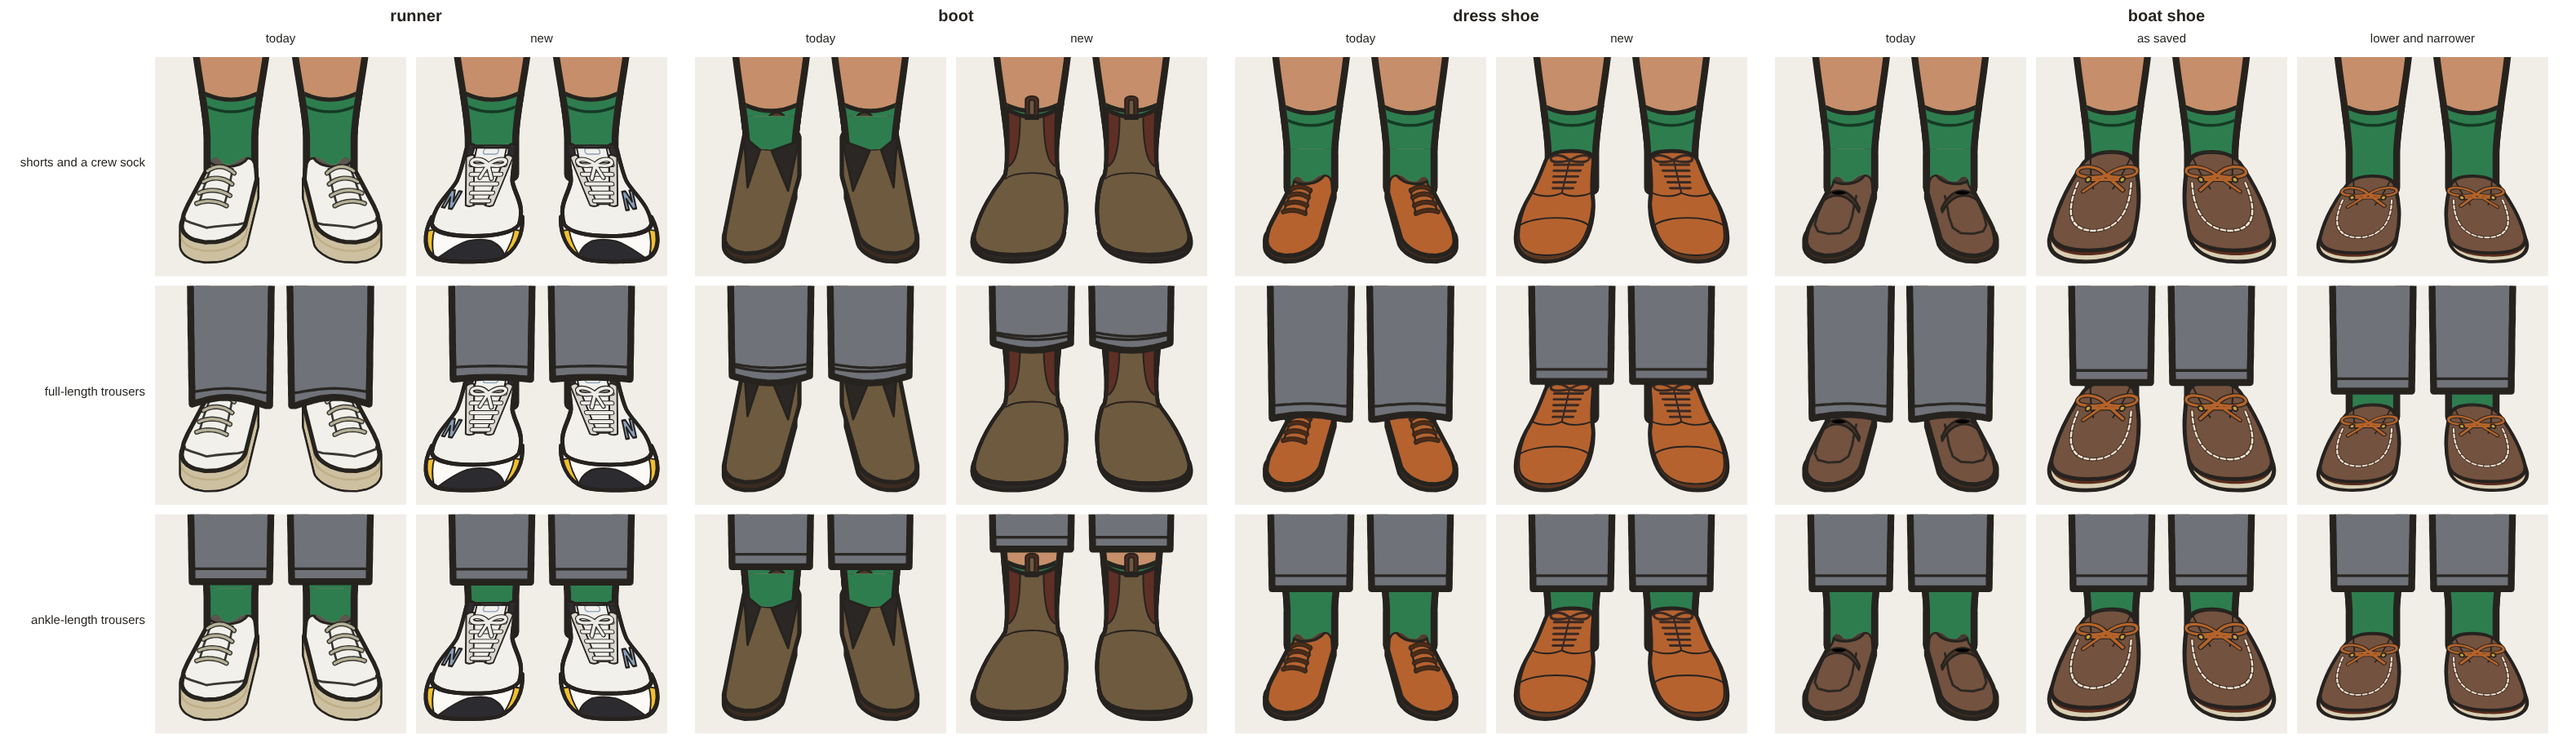
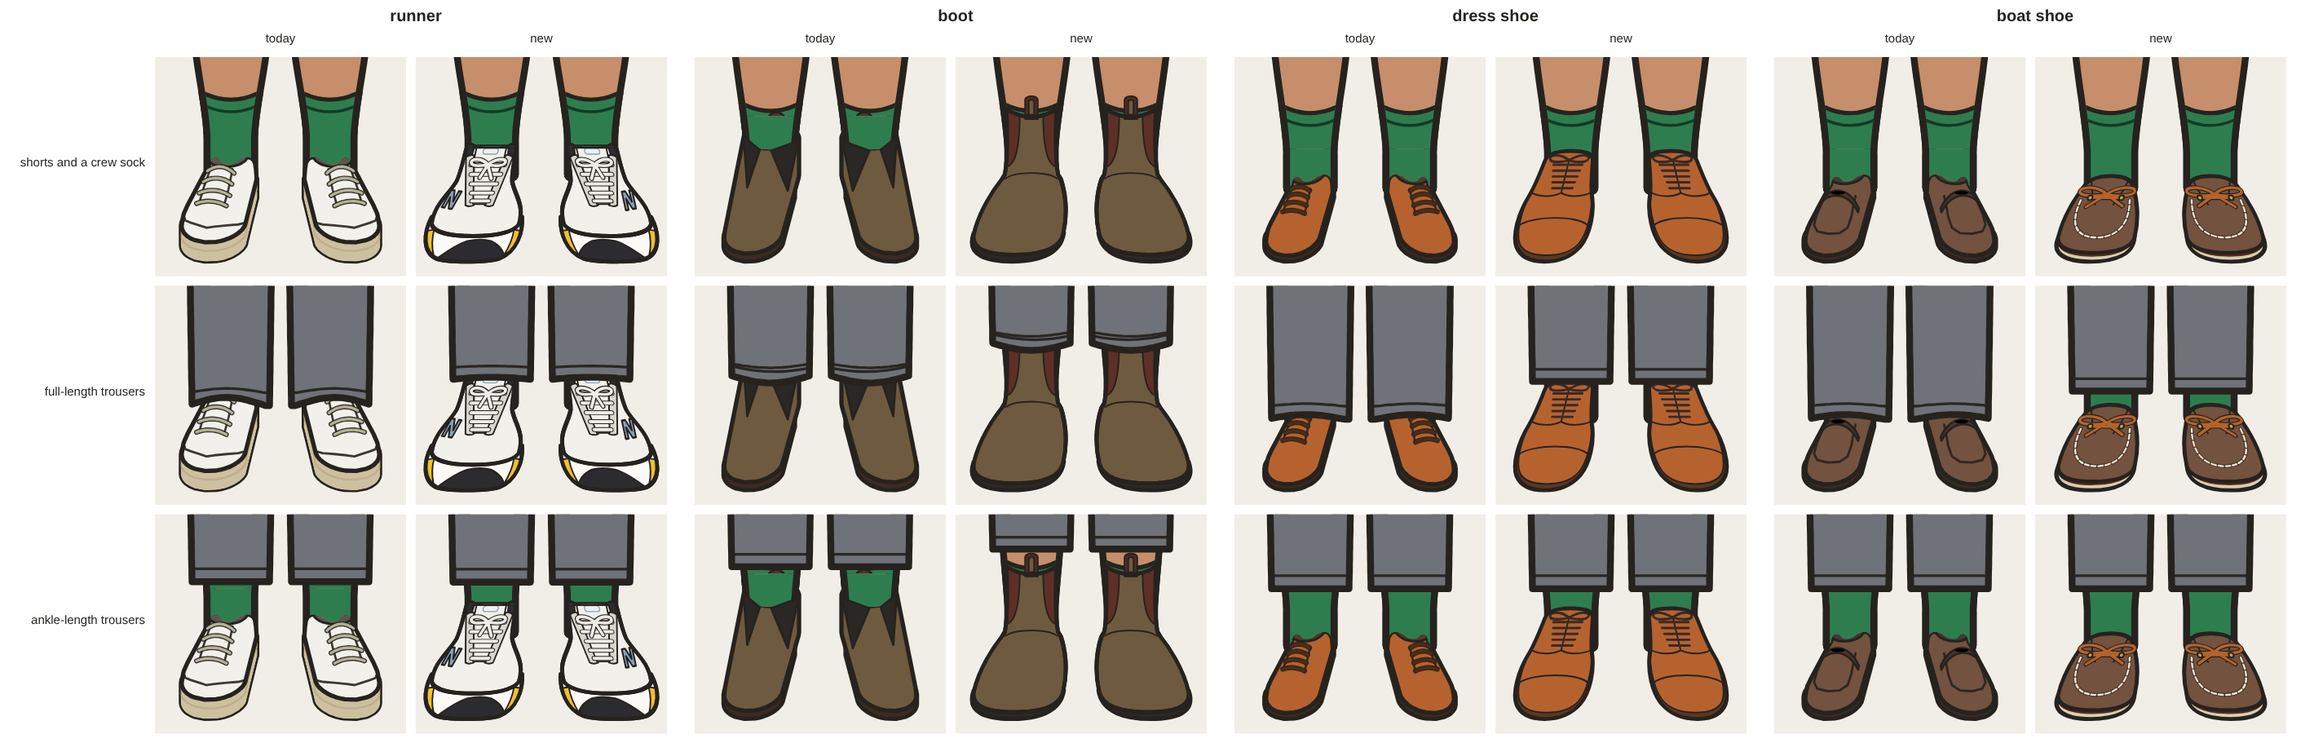
Shoe drawing: the boat shoe example made lower and narrower, as the owner chose
The owner found the saved boat shoe too large on the figure and chose the
version 78% as tall and 92% as wide. The example the model is shown is now
that drawing (coordinates resized, line widths kept), and the sheets use it.

Claude-Session: https://claude.ai/code/session_015h2NbRCi2sS1NKtoRzC6B7

diff --git a/bench/experiments/shoe_drawn/on_figure.py b/bench/experiments/shoe_drawn/on_figure.py
@@ -81,8 +81,7 @@ SHOES = [
     ("dress shoe", ("dress_shoes", "oxford", "#b5622f", {"toe_cap": "stitched"}),
      [Drawn("new", "dress-shoe.svg", None, front=32, back=32, instep=30, hinge=32)]),
     ("boat shoe", ("dress_shoes", "loafer", "#73523f", {}),
-     [Drawn("as saved", "boat-shoe.svg", None, front=34, back=34, instep=32, hinge=34),
-      Drawn("lower and narrower", "boat-shoe.svg", None, front=34, back=34, instep=32, hinge=34, size=(0.92, 0.78))]),
+     [Drawn("new", "boat-shoe.svg", None, front=79.3, back=79.3, instep=77.3, hinge=79.3)]),
 ]
 CASES = [("shorts and a crew sock", "shorts"), ("full-length trousers", "full"), ("ankle-length trousers", "ankle")]
 

diff --git a/bench/experiments/shoe_drawn/README.md b/bench/experiments/shoe_drawn/README.md
@@ -73,8 +73,11 @@ Instead of tracing or measuring a shoe, a vision model (Claude) does what a pers
     for their front to just meet an ordinary sneaker's collar (the frame's y = 50), so under a lower shoe the sock
     shows. The figure's own length (5 cm above the ground) would bury a low shoe drawn at this size.
   - *The boat shoe* was drawn too large (owner): too high for a low-profile shoe, and its proportions looked off
-    once turned out. The sheets show it as saved and 78% as tall and 92% as wide; only the lower one shows the sock
-    under full-length trousers, as a boat shoe should.
+    once turned out. Shown as saved and 78% as tall and 92% as wide, only the lower one showed the sock under
+    full-length trousers, as a boat shoe should. The owner chose the lower one, and `EXAMPLES/boat-shoe.svg` is now
+    that drawing (its coordinates resized, its line widths kept), so the model is not shown a boat shoe too large.
+  - *The owner's verdicts:* the alignment is better, toes turned out is fine, the perspective is fine, the
+    proportions are much better than today's, the hem looks right, use the lower boat shoe.
 
 **Still open:** the runner's toe rubber was corrected from a one-line note in one round and is with the owner to judge. The method has only been
 tuned and judged on these five pairs, so it must next be run unchanged on pairs it has not seen. The drawings are
@@ -92,7 +95,7 @@ down, toes out 11°) and not yet placed on the app's figure. The rest is in the 
 | `render3.js` | The same for `ARCH.md` and `CORRECT.md`: takes `OUT.left.svg`, and `OUT.right.svg` when there is one instead of mirroring. |
 | `on_figure.py` | Lays the saved examples on the app's As worn figure in place of today's shoes and writes a close-up sheet and a phone-size sheet: `python bench/experiments/shoe_drawn/on_figure.py` (writes to `bench/out/shoe_drawn/`; PNGs need Chrome or Chromium). |
 | `EXAMPLES/trainer-full.svg` | The trainer drawn by the orchestrating session from the owner's photos in about ten minutes (four flat colours), with its legs. A worked example. |
-| `EXAMPLES/dress-shoe.svg`, `EXAMPLES/boat-shoe.svg` | Round 1's dress shoe and boat shoe, which the owner liked. Worked examples. |
+| `EXAMPLES/dress-shoe.svg`, `EXAMPLES/boat-shoe.svg` | Round 1's dress shoe and boat shoe, which the owner liked. Worked examples. The boat shoe was made 78% as tall and 92% as wide on 15 November, after the owner saw it too large on the figure. |
 
 The briefs also mention `EXAMPLES/*.png`, renders of the three examples; they are not kept here. Make them again with
 `node render.js EXAMPLES/dress-shoe.svg EXAMPLES/dress-shoe.png` (and the same for the boat shoe); the trainer's file
